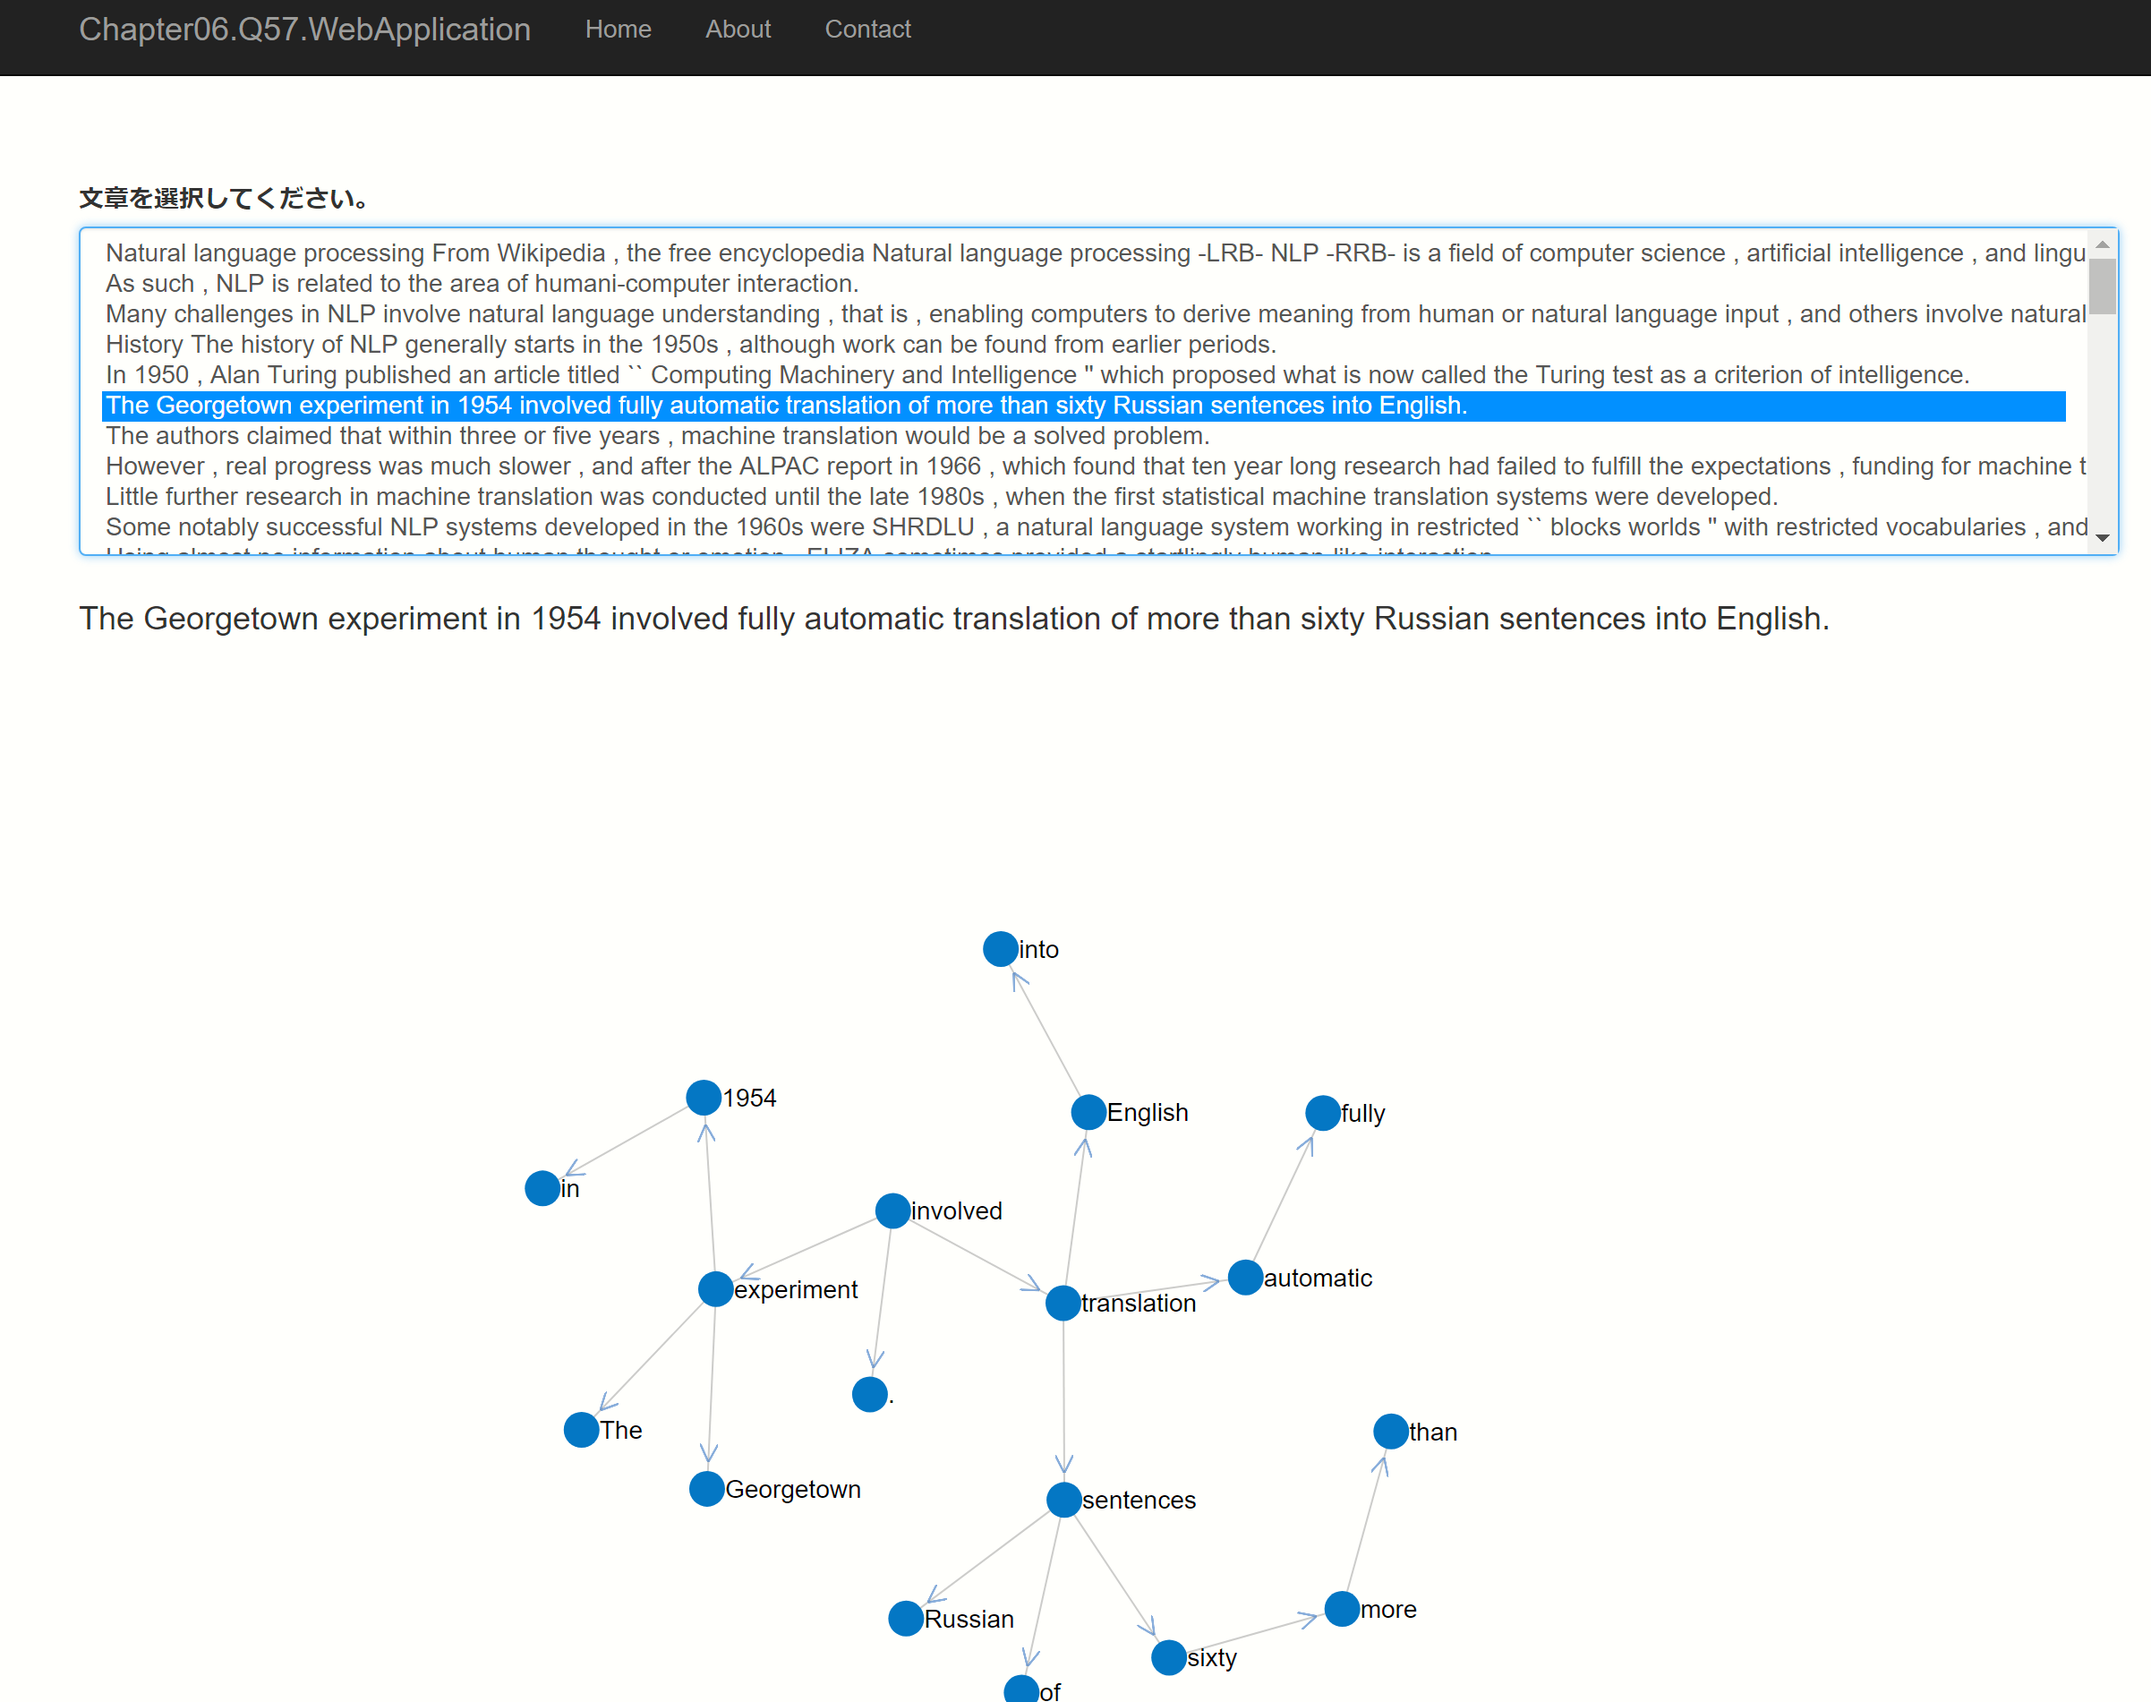
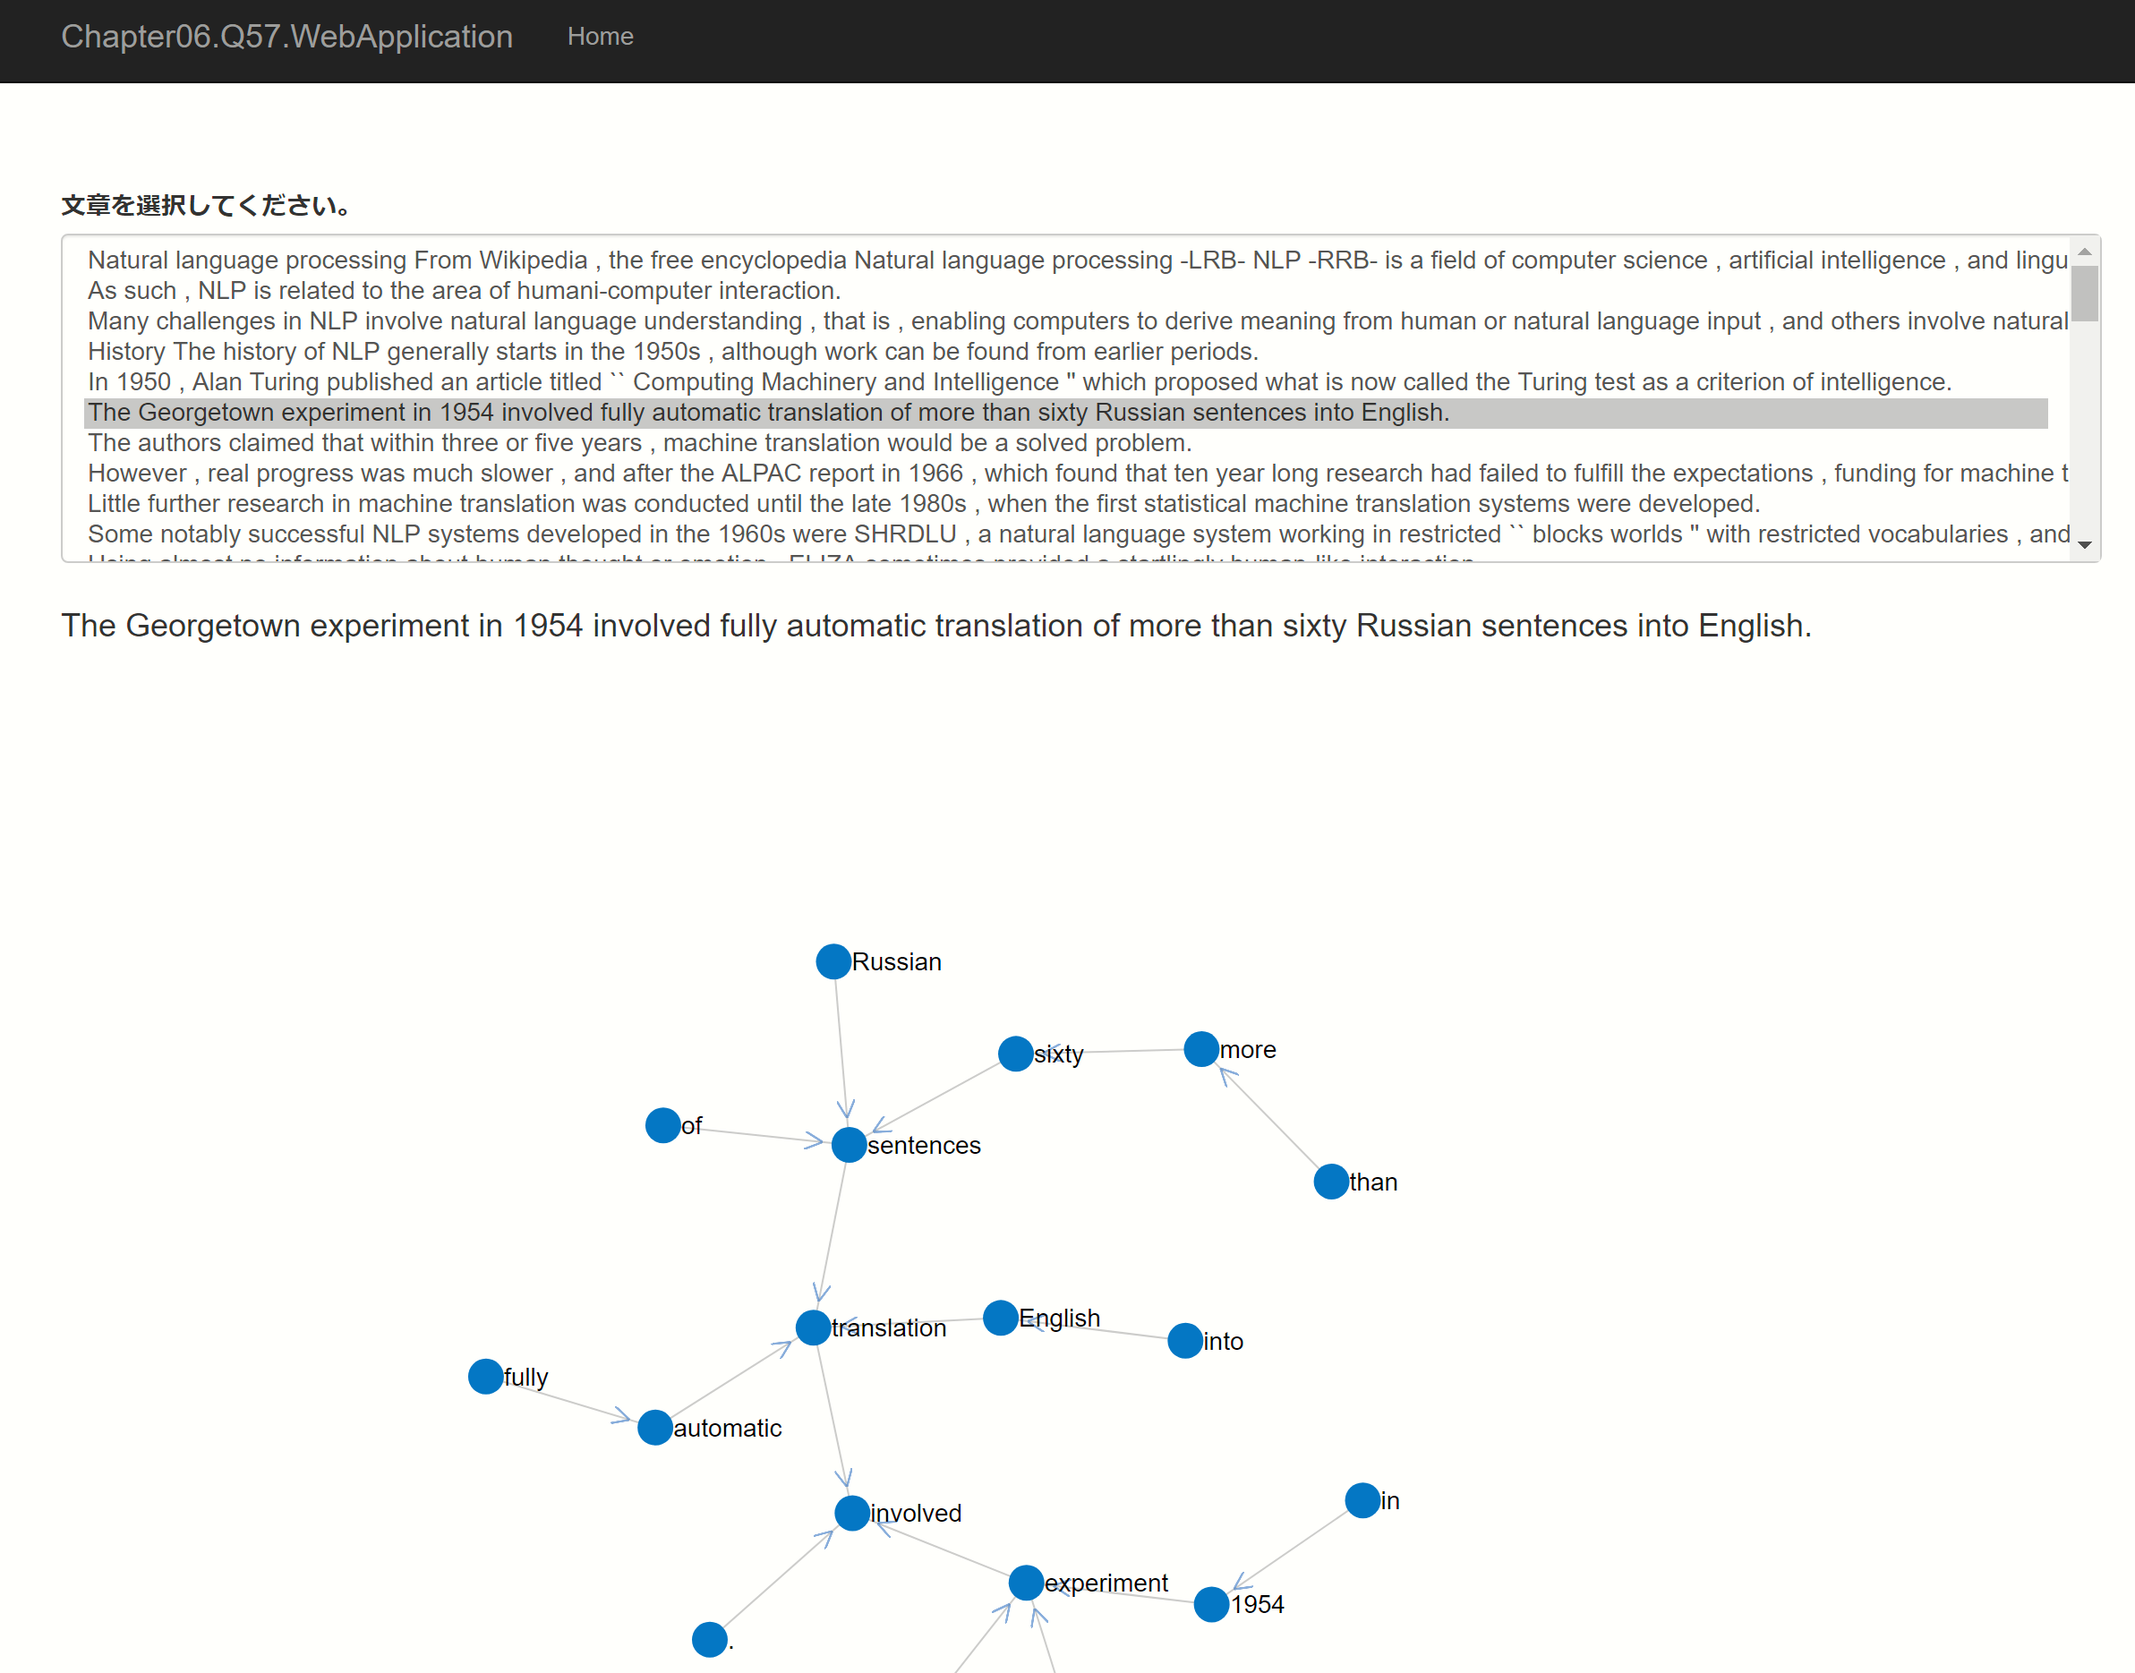
不要な画面に遷移しないようにリンクを削除 係り受けの矢印が逆のようなので修正。それに伴い、スクリーンショットも修正。

diff --git a/Chapter06.Q57.WebApplication/Controllers/HomeController.cs b/Chapter06.Q57.WebApplication/Controllers/HomeController.cs
@@ -50,7 +50,7 @@ namespace Chapter06.Q57.WebApplication.Controllers
             var nodes = sentence.Words.Select(s => new {label = s.Value}).ToList();
             var dependencies = sentence.DependencyDictionary["collapsed-dependencies"];
             var links = dependencies.Where(d => d.Governor.Index > 0).Select(d => new
-                {source = d.Governor.Index - 1, target = d.Dependent.Index - 1});
+                {target = d.Governor.Index - 1, source = d.Dependent.Index - 1});
 
             return new JsonResult(new Dictionary<string, object>()
             {
